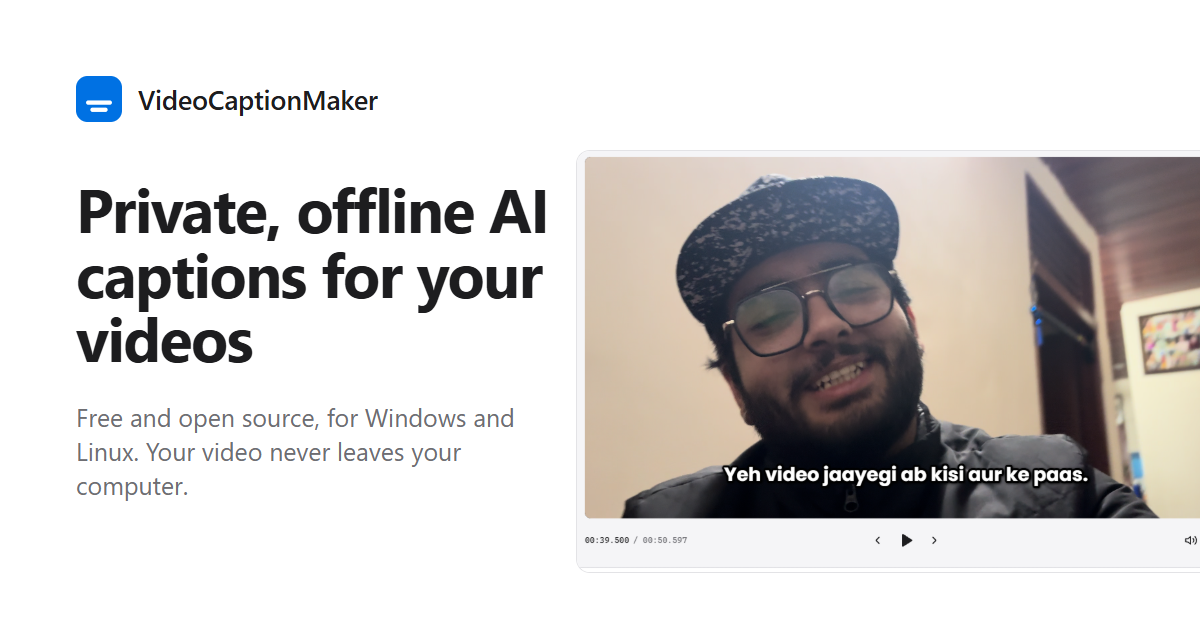
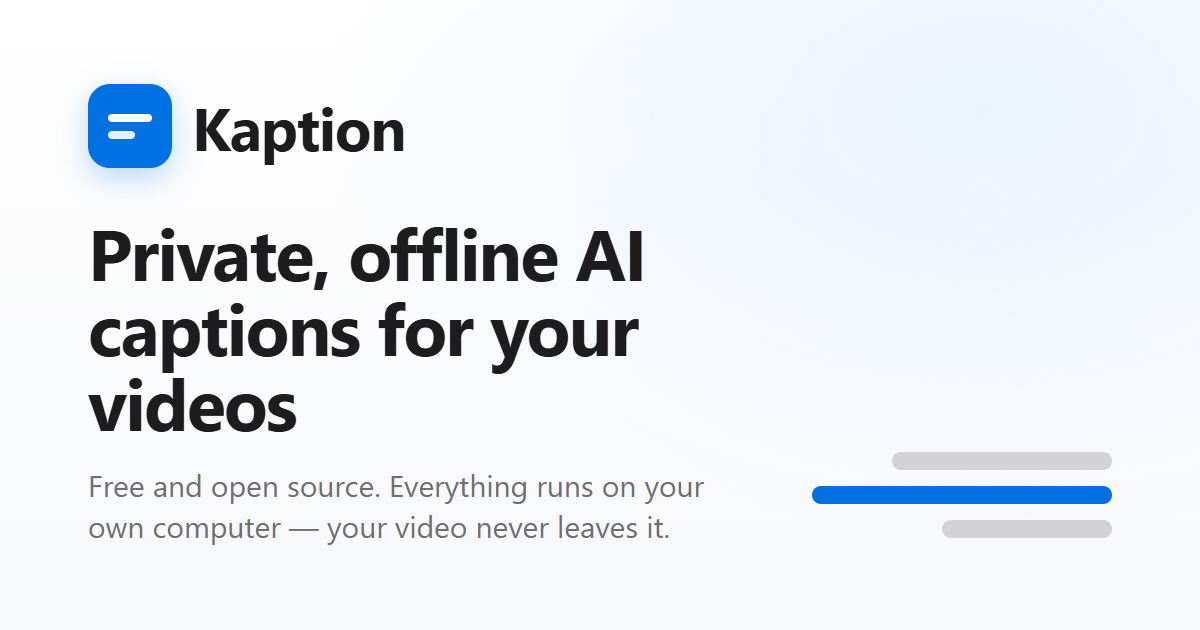
feat(site): regenerate og.png as a Kaption wordmark card, no photo
Replace the social-share image: the old card had a photo of a person in the
player. The new one is a clean Kaption wordmark card (glyph, wordmark, the
'Private, offline AI captions for your videos' headline and a caption-bar
motif) on the brand background — no face, no video frame. 1200x630. The
og:image URL in index.html flips to the Kaption Pages path in commit 3.3.

Part of the VideoCaptionMaker -> Kaption rename (v1.6.0), no-people site images.

diff --git a/docs/PROGRESS.md b/docs/PROGRESS.md
@@ -4485,3 +4485,28 @@ confirm. **Before relying on the redirect** (old installs' `vcm update`), run:
 → expect a 301 to `/Kaption/...`. Phases 2 (his GitHub steps) and 4 (local
 folder rename, incl. carrying over Claude Code's project memory dir keyed to the
 old path) are in the chat report. Nothing pushed.
+
+**Phase 3 progress (23 Nov):** Commits done and unpushed — **3.1** `b6ac8d7`
+(dev project name), **3.2a** `db56883` + **3.2b** `3c71c10` (GHCR images →
+kaption-*), **3.4a** `a7f20db` (app wordmark/title/footer/404/dialog/refusal →
+Kaption; lint+types+10/10 green). Origin has Tanush's 2 post-release docs
+commits. **Redirect test 23 Nov: repo NOT renamed yet** (302 stays on
+Video-Caption-Maker) → holding 3.3 (URLs).
+
+**No-people site images (added to Phase 3 by Tanush, 23 Nov):** site/images/
+(editor, dashboard, search, settings) + og.png must show no face or video frame.
+dashboard/search → grey-box thumbnails; editor → dark placeholder for the video
+area (keep overlay/controls/side panel) or drop it; og.png → Kaption wordmark
+card, no photo. Own videos only for any text (never leo/new/hinglish/Latent; no
+IMG_1343 0:19/0:30). Check by eye 375 & 1440 light+dark, axe 0.
+- **og.png ✅ DONE** — regenerated as a Kaption wordmark card (glyph + Kaption +
+  "Private, offline AI captions for your videos" + caption-bar motif, no photo),
+  1200×630, at `site/og.png`. The og:image **URL** in index.html flips to the
+  Kaption Pages path in 3.3.
+- **4 screenshots — PENDING a decision:** they show the header wordmark
+  (VideoCaptionMaker) + the own videos' faces, so they need the Kaption app +
+  own videos, which coincide only on the install once it's updated to v1.6.0.
+  Options put to Tanush: (A) drop the 4 shots in the rename commit, capture clean
+  Kaption ones post-update; (B) grey-box the current shots now (keeps old
+  wordmark briefly), replace post-update; (C) capture now via a temp Kaption
+  frontend against the install data. Await his choice.
